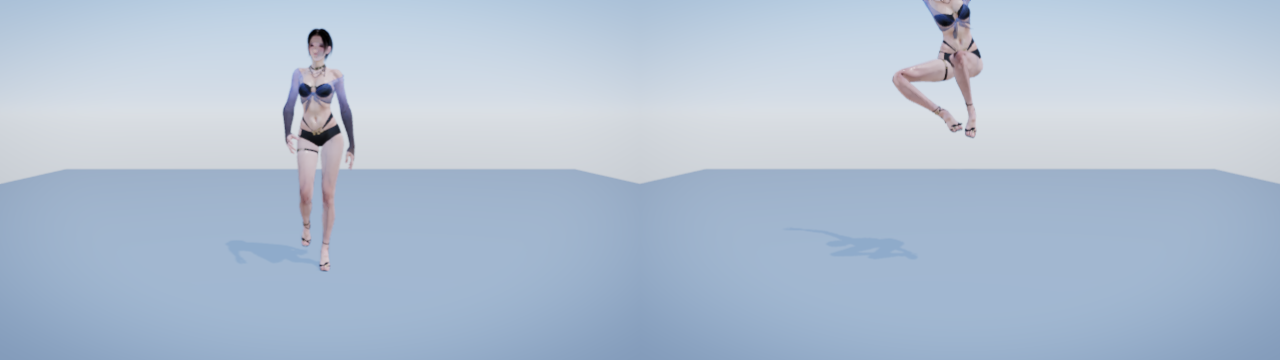
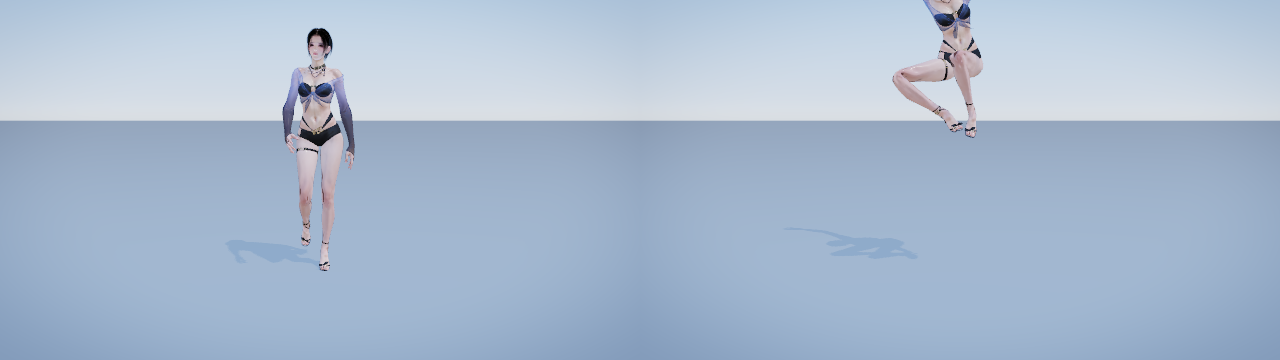
fix(iris-exp): 中距离朦胧修复——视觉地面 24m→240m，天空盒地平线以下渐变不再冒充雾
用户报中距离画面「略微朦胧」。逐像素归因：不是雾（FogSettings 未注册，
地面远缘是 20px 内 60 值的硬边），而是天空盒程序化渐变在地平线处最亮、
且地平线以下还有一段占画高 20% 的白蓝缓变带——视觉地面只有 ±12 m 时，
这段天空渐变恰好铺在 12–19 m 的「中距离」上，读作雾。

修复（纯游戏层，引擎零改动）：新增 GROUND_VISUAL_HALF=120.0 只扩视觉
网格（±120 m），玩法活动范围 GROUND_HALF=11.0 钳制不变，两者解耦；
默认机位下地-天边缘升到距眼角 ≈1.3°，白纱压缩成一条细线。

验证：640×360 离屏快照同款条带扫描，天空→地面硬边直切、地面至画面
底部均匀无距离渐变；docs/exp.png 重生成。六项门禁全绿，测试基线
debug 1685 / release 1682 零改动原值通过。

diff --git a/games/iris-exp/src/plugin.rs b/games/iris-exp/src/plugin.rs
@@ -65,7 +65,7 @@ pub const PITCH_MAX: f32 = 85.0_f32.to_radians();
 /// 轨道距离下限（m）：贴近面部特写。下限取相机近裁剪面（`z_near=0.1`）
 /// 之上留裕量——再近角色表面会被近裁剪面切穿。
 pub const DIST_MIN: f32 = 0.3;
-/// 轨道距离上限（m）：拉远看全景（地面 24 m 尺度之上再留余量）。
+/// 轨道距离上限（m）：拉远看全景（视觉地面 240 m 尺度之上再留余量）。
 pub const DIST_MAX: f32 = 60.0;
 /// 角色移动速度（m/s）。**步幅匹配值**：Walk 剪辑 58 键 @60fps =
 /// 0.967 s/循环，常速步行步幅 ≈1.8 m → 1.8 m/s 起步脚不打滑。
@@ -76,8 +76,18 @@ pub const DIST_MAX: f32 = 60.0;
 pub const MOVE_SPEED: f32 = 1.8;
 /// 朝向转身速率（1/s；帧率无关指数趋近，见 [`exp_approach`]）。
 pub const TURN_RATE: f32 = 12.0;
-/// 角色活动范围半宽（m）：地面 24×24，留 1 m 边防止走出地面悬空。
+/// 角色活动范围半宽（m）：**玩法边界**（与视觉地面尺寸解耦），在边界
+/// 内任意位置身后都有 ≥100 m 的真实地面。
 pub const GROUND_HALF: f32 = 11.0;
+/// 视觉地面半宽（m）：24→240 的原因——24 m 地面的远缘只离角色 12 m，
+/// 天空盒「地平线以下淡出」的白蓝渐变（程序化天空在地平线处最亮、
+/// 下方缓变）从远缘一直铺到真实地平线，把 12–19 m 的**中距离**染成
+/// 一条 20% 画高的白纱（逐像素实测：远缘以上 (207,211,217)，是读作
+/// 雾的天空渐变，不是地面上的雾——地面远缘本身是硬边）。扩到 ±120 m
+/// 后真实地面填满地平线以下区域，默认机位下地-天边缘升到距眼角
+/// ≈1.3°（拉远到 DIST_MAX 也在画外），白纱压缩成一条细线。只改视觉
+/// 网格，玩法钳制（[`GROUND_HALF`]）不变。
+pub const GROUND_VISUAL_HALF: f32 = 120.0;
 
 /// 轨道相机状态（游戏层资源）：yaw = 环绕方位角（0 = 相机在 +Z 侧）、
 /// pitch = 俯角（0 = 水平，正值 = 相机升高俯视）、dist = 轨道距离、
@@ -286,6 +296,8 @@ fn setup_resources(world: &mut World) {
 /// 状态口径一致（拖拽不跳变）。
 fn build_scene(world: &mut World) {
     // ---- 地面：大扁立方体（哑光灰，衬托角色）----
+    // 视觉半宽 GROUND_VISUAL_HALF（中距离白纱修复，见常量文档）；玩法
+    // 活动范围仍由 GROUND_HALF 钳制，两者解耦。
     let ground_mesh = world.resource_mut::<MeshStore>().add(MeshData::cube());
     let ground_mat = world
         .resource_mut::<MaterialStore>()
@@ -294,7 +306,7 @@ fn build_scene(world: &mut World) {
         Name("exp/ground".to_string()),
         Transform {
             position: Vec3::new(0.0, -0.05, 0.0),
-            scale: Vec3::new(24.0, 0.1, 24.0),
+            scale: Vec3::new(GROUND_VISUAL_HALF * 2.0, 0.1, GROUND_VISUAL_HALF * 2.0),
             ..Transform::IDENTITY
         },
         ground_mesh,

diff --git a/CHANGELOG.md b/CHANGELOG.md
@@ -5,6 +5,25 @@
 
 ## [Unreleased]
 
+### Fixed（iris-exp：中距离朦胧——视觉地面 24 m → 240 m，天空盒地平线以下渐变不再冒充雾）
+
+用户报 iris-exp 中距离画面「略微朦胧」并附截图。逐像素归因（左缘条带
+垂直扫描）：**不是雾**——`FogSettings` 未注册（缺席 = 关），地面远缘
+在截图 y≈400–418 处是 20 px 内 (207,211,217)→(157,177,201) 的**硬边**；
+朦胧感来自天空盒：程序化渐变天空在地平线处最亮（(217,223,229)，设计
+上刻意压在泛光阈值下），且地平线**以下**还有一段缓变白蓝渐变（像素
+实测占画高 20%）。病灶是**视觉地面只有 ±12 m**：远缘到真实地平线
+（12–19 m，恰为「中距离」）露出的是这段天空渐变，读作雾。
+
+- 修复（纯游戏层，引擎零改动）：`plugin.rs` 新常量
+  `GROUND_VISUAL_HALF = 120.0`，视觉地面网格 24 m → 240 m；玩法活动
+  范围 `GROUND_HALF = 11.0` 钳制不变，两者解耦。默认机位下地-天边缘
+  升到距眼角 ≈1.3°（DIST_MAX 拉远也在画外），白纱压缩成一条细线。
+- 验证：640×360 离屏快照同款扫描——修复前地平线以下 20% 画高的白纱
+  带；修复后天空→地面在 y≈115 处硬边直切（(211,217,224)→
+  (141,159,183)），地面到画面底部均匀无距离渐变。验收图
+  `docs/exp.png` 重生成（FrameStats 断言原值通过）。
+
 ### Added（C7b 闭合战役 · 大裁决役下半——Weighted Blended OIT：逐像素顺序无关透明）
 
 路线图 v5 清账战役批次八下半（池 #5）：§8.3 半透明排序条目按逐像素粒度
